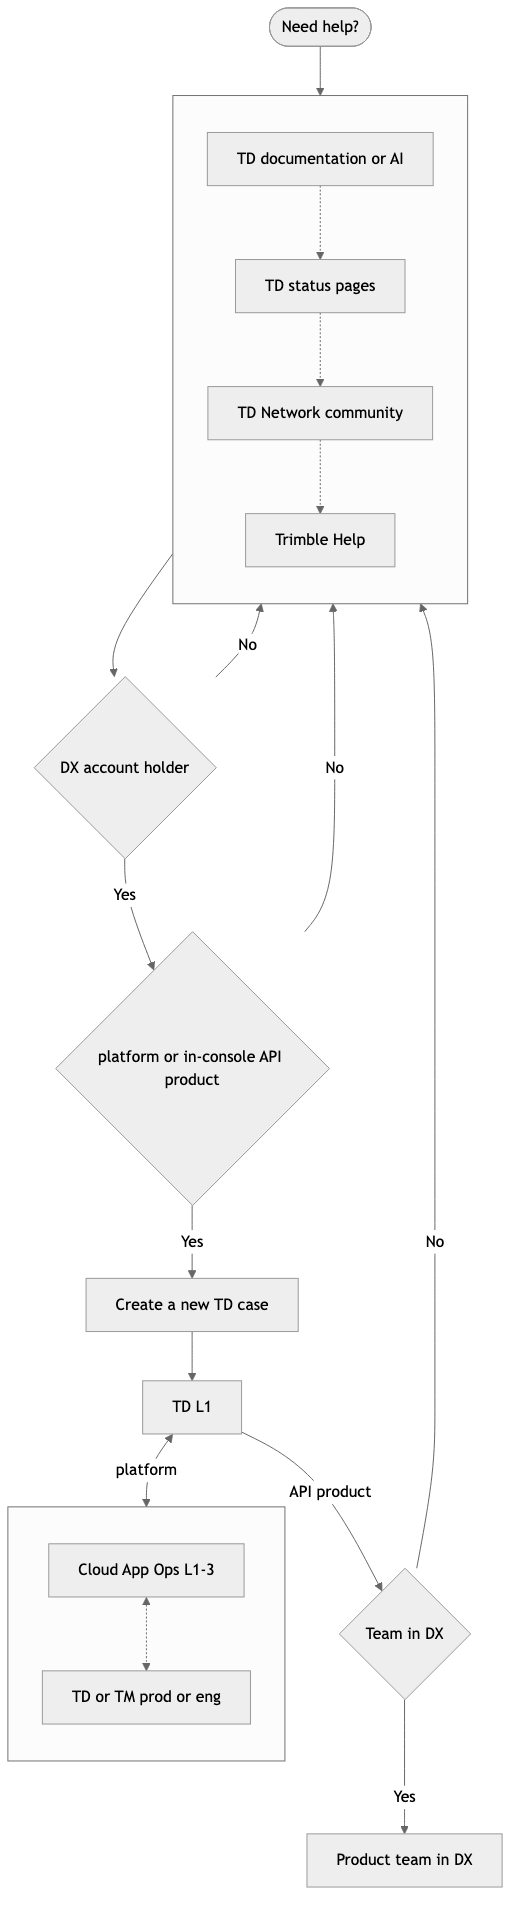
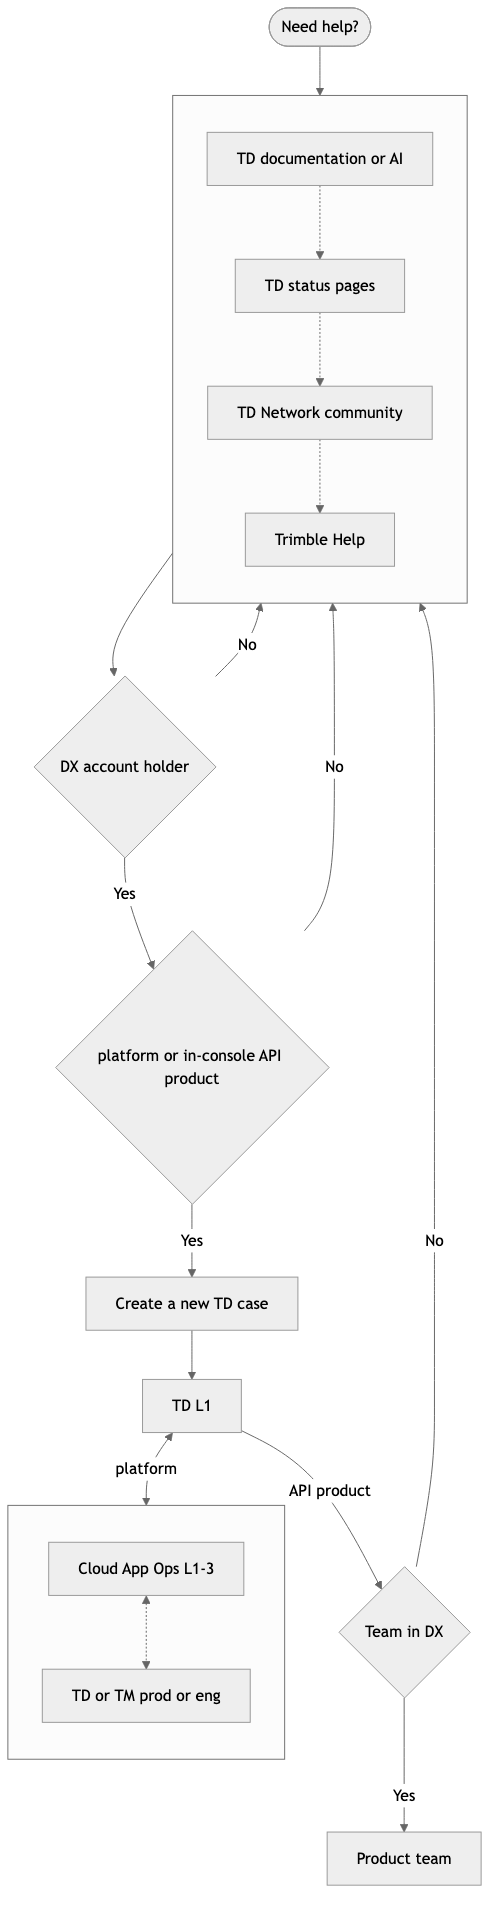
help

diff --git a/image/developer/help.md b/image/developer/help.md
@@ -18,7 +18,7 @@ flowchart TD
 	createcase["Create a new TD case"]
 	tdl1["TD L1"]
 	teamindx{"Team in DX"}
-	productteam["Product team in DX"]
+	productteam["Product team"]
 
 	subgraph platbranch[" "]
 		direction TB
